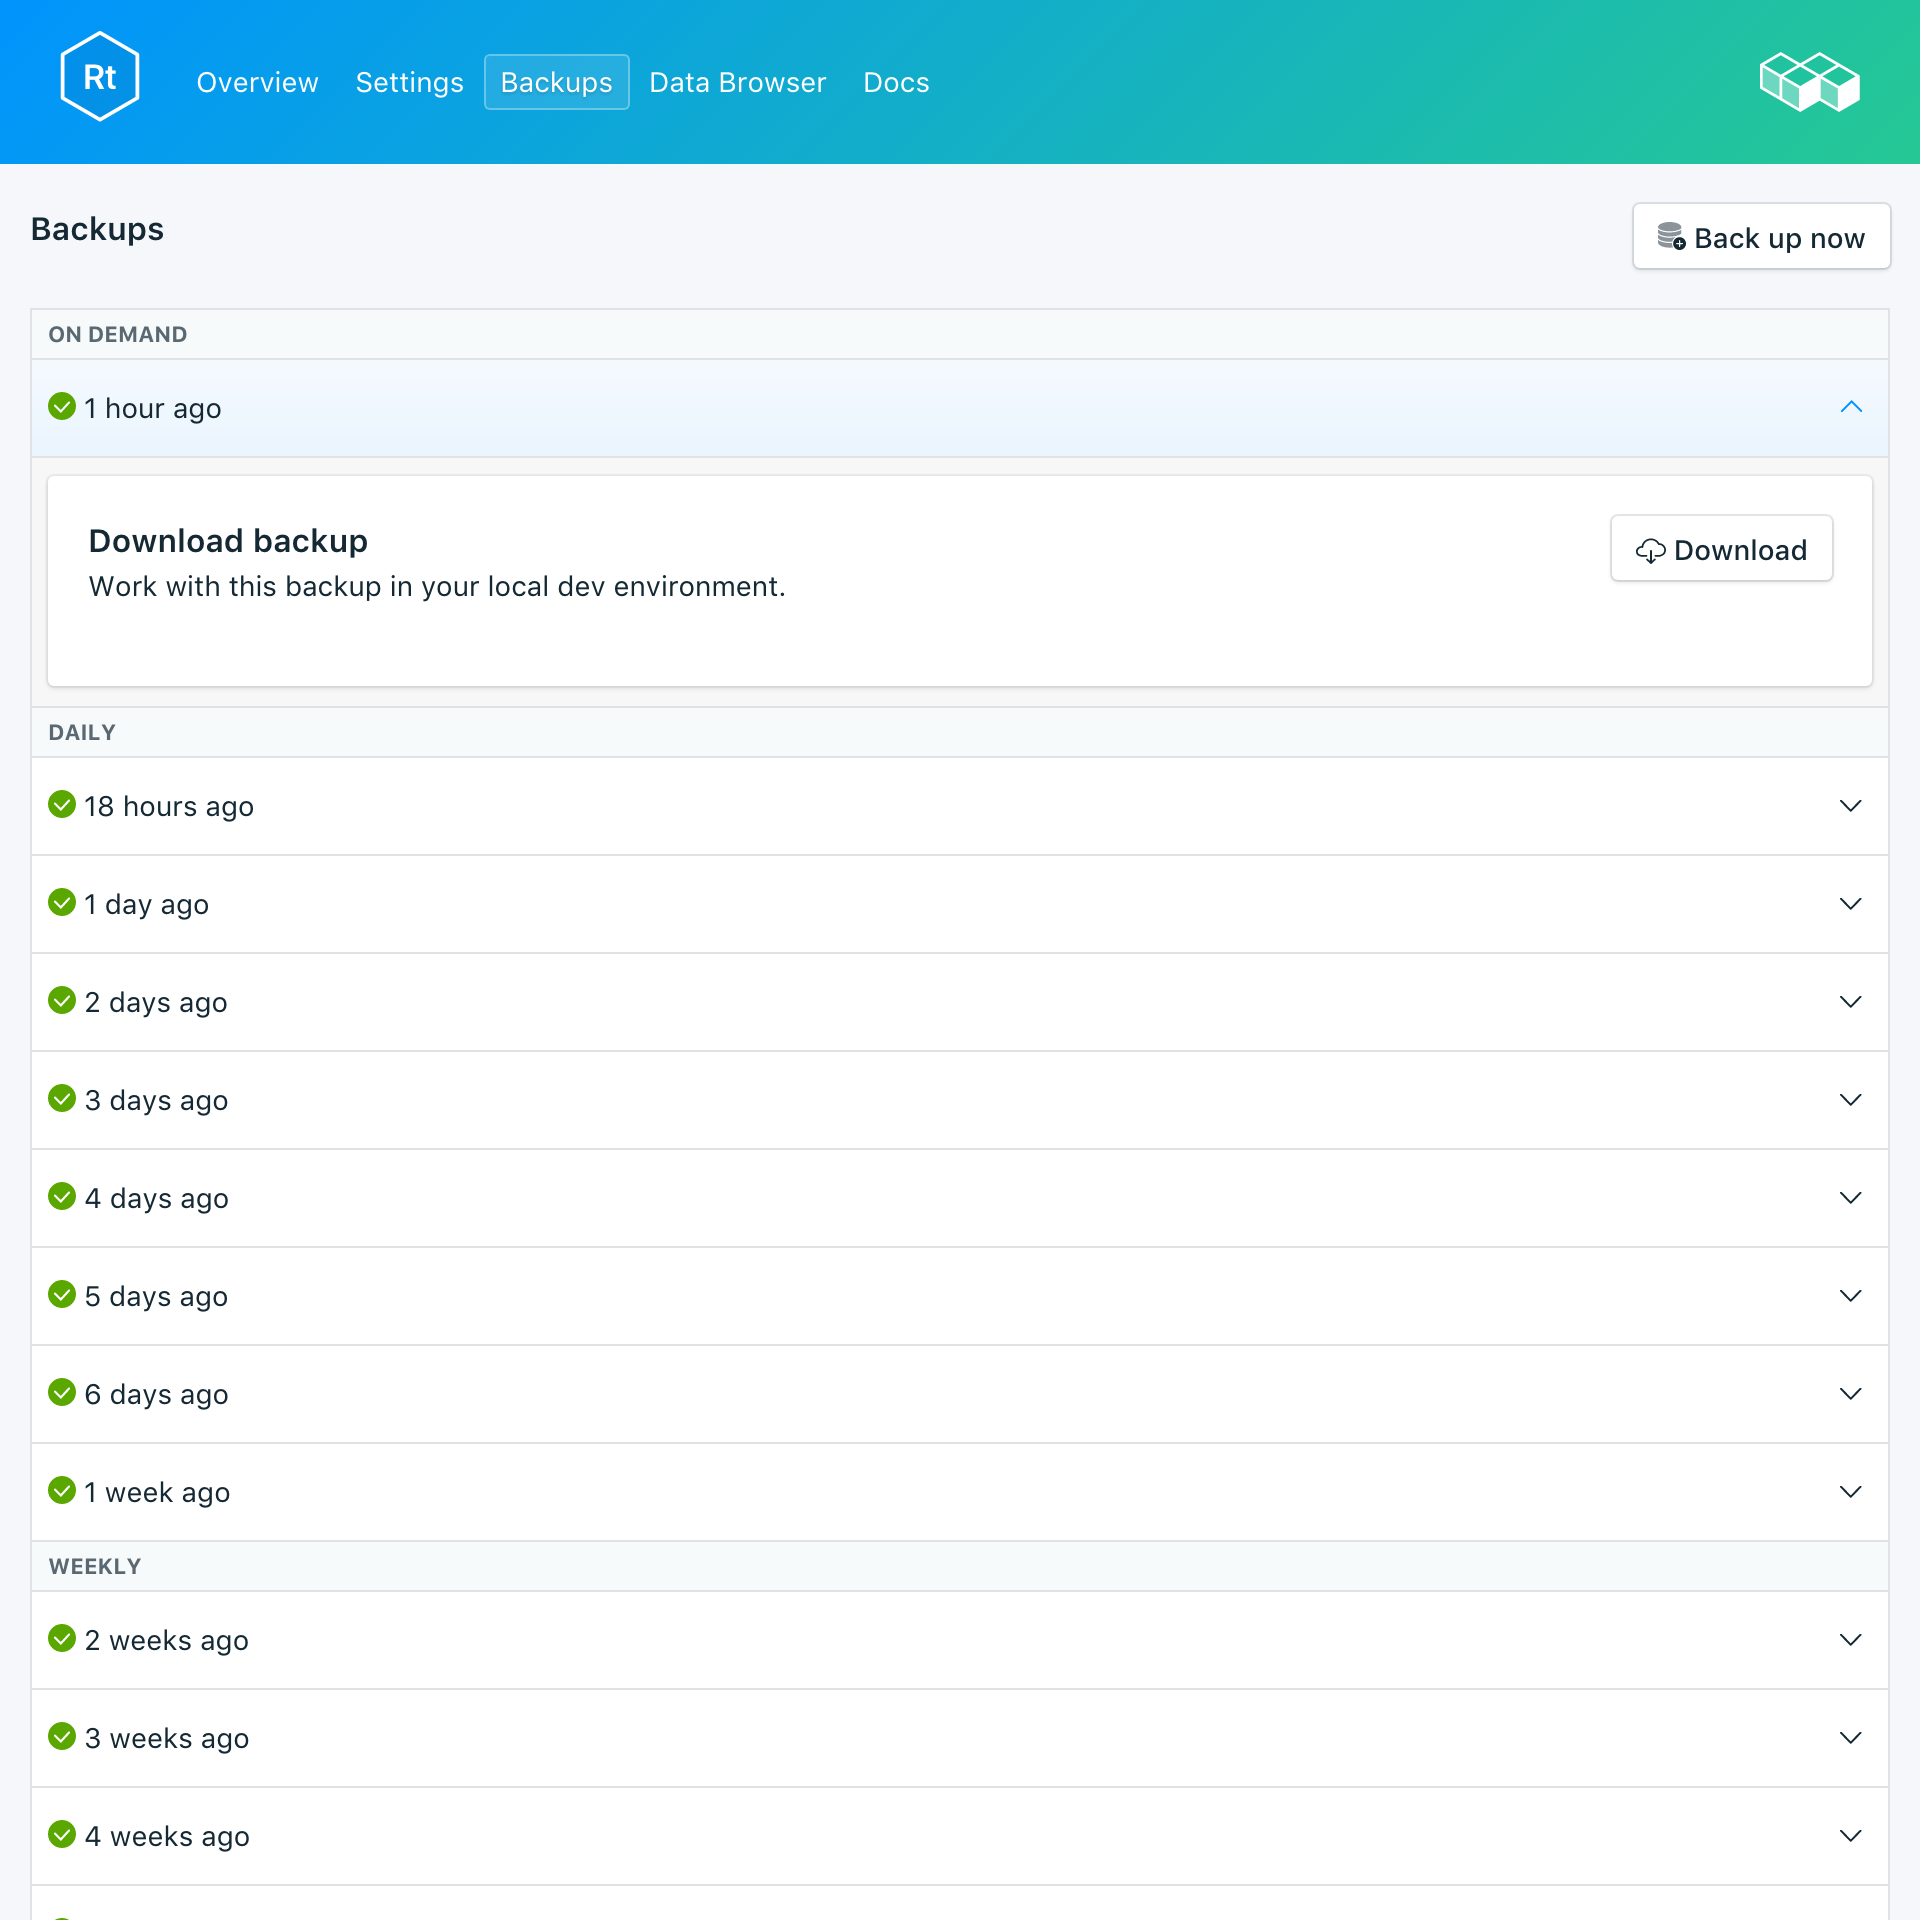
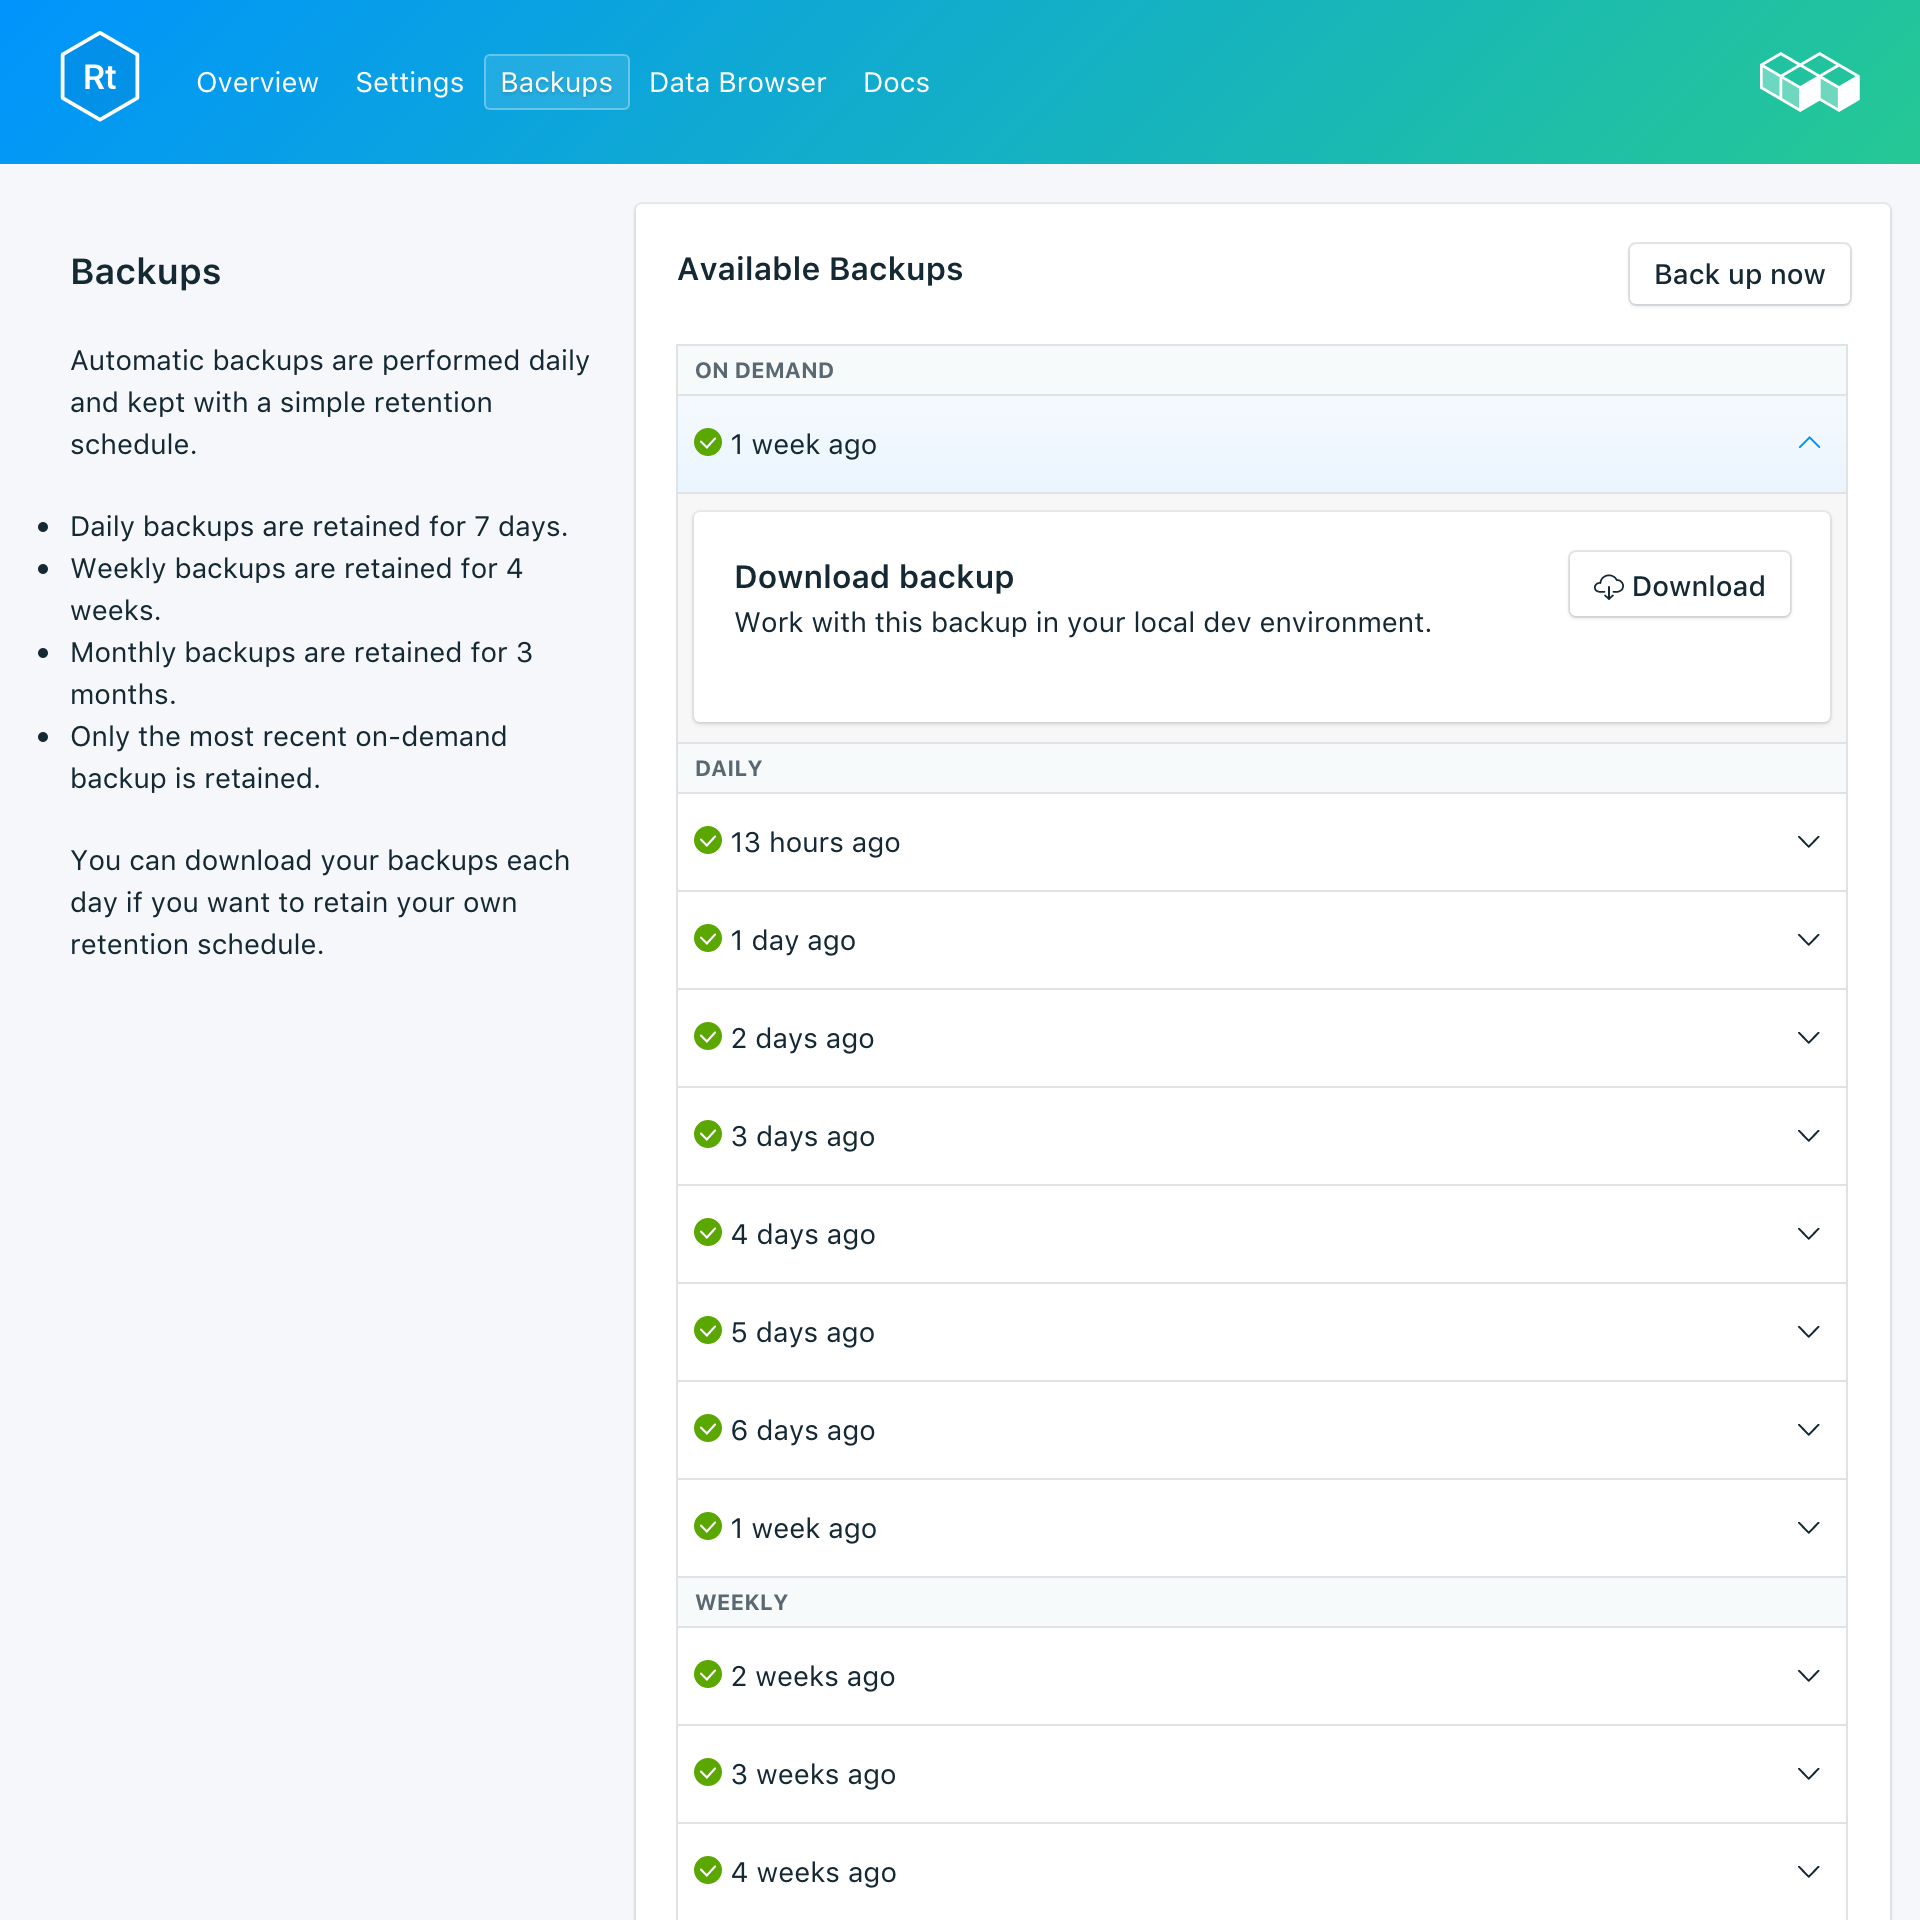
Updates 05 Dec

diff --git a/dashboard-settings.md b/dashboard-settings.md
@@ -47,7 +47,9 @@ A new, randomly generated password will appear, or you can type your own passwor
   
 ![Updating the RethinkDB password](./images/rethink-update-password.png "The automatic password generator")
 
-The changes take effect when you click on the **Update Password** button. This will change the credentials that you and your services use to connect and is a part of your service's connection string. The _Deployment Details_ pane will show the progress of the running job.
+Click **Update Password**. You will be asked to confirm the change. Click **Update Password** in the dialog to confirm the new password, or cancel to cancel the change. The _Deployment Details_ pane will show the progress of the running job.
+
+**Note:** Changing the password changes the credentials that you and your services use to connect, and invalidates your service's connection string. It can also result in downtime.
 
 ### Updating Connected Applications
 Changing the password will invalidate the existing connection string and generate a new one. This will cause a service interruption until connected applications are updated with the new connection string. You will have to do this by suppling the new connection string to your applications.

diff --git a/dashboard-backups.md b/dashboard-backups.md
@@ -14,7 +14,17 @@ lastupdated: "2017-10-16"
 # Backups
 {: #backups}
 
-You can create and download backups from the *Manage* page of your service dashboard. Both scheduled and manual backups are available.
+You can create and download backups from the _Backups_ tab of the _Manage_ page of your service dashboard. Daily, weekly, monthly, and on-demand backups are available. They are retained according to the following schedule:
+
+Backup type|Retention schedule
+----------|-----------
+Daily|Daily backups are retained for 7 days
+Weekly|Weekly backups are retained for 4 weeks
+Monthly|Monthly backups are retained for 3 months
+On-demand|One on-demand backup is retained. The retained backup is always the most recent on-demand backup.
+{: caption="Table 1. Backup retention schedule" caption-side="top"}
+
+Backup schedules and retention policies are fixed. If you need to keep more backups than the retention schedule allows, you should download backups and retain archives according to your business requirements.
 
 ## Viewing existing backups
 

diff --git a/dashboard-overview.md b/dashboard-overview.md
@@ -23,7 +23,7 @@ The _Deployment Details_ panel shows details of your service.
 
 ### Type
 
-The type of database that is offered by the service, and the database version that your service uses.
+The type of database that is offered by the service, and the database version that your service uses. If a more recent database version is available, a notification is displayed, together with a link to the [Upgrade version](/docs/services/ComposeForRethinkDB/dashboard-settings.html#upgrade-version) section of your service dashboard.
 
 ### Name
 
